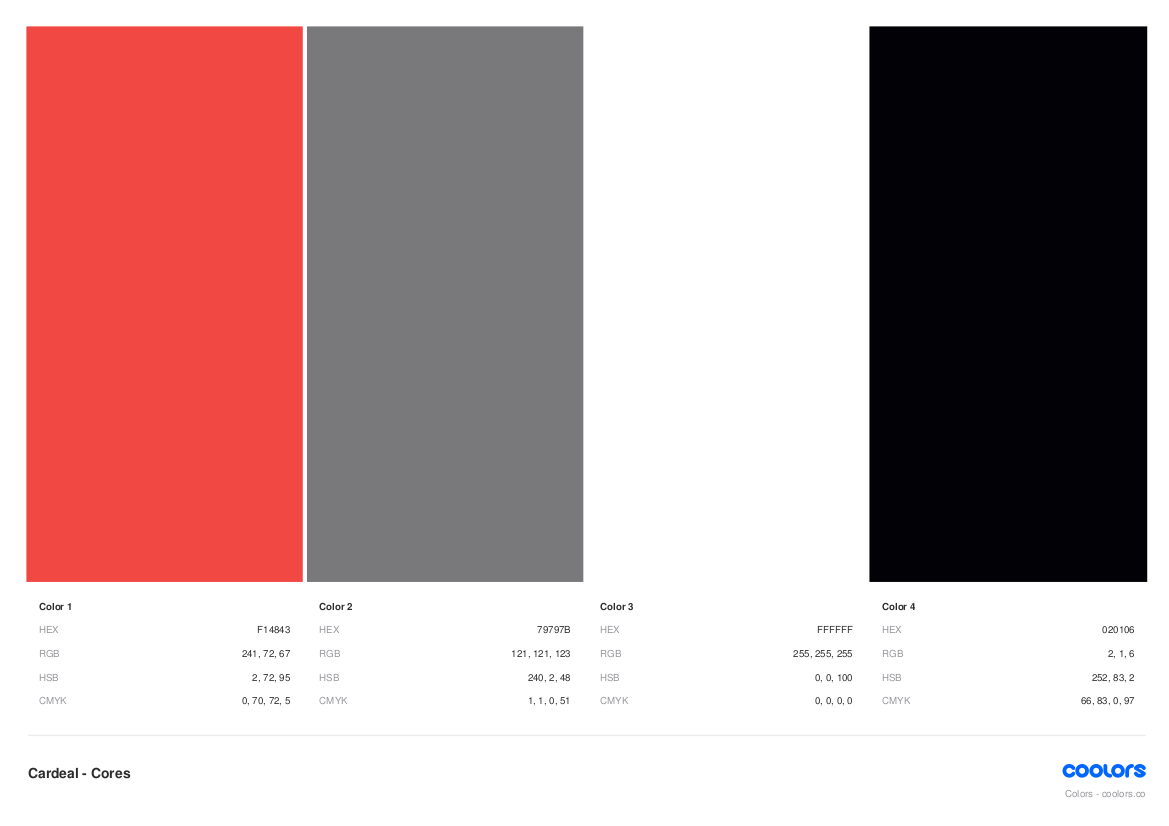
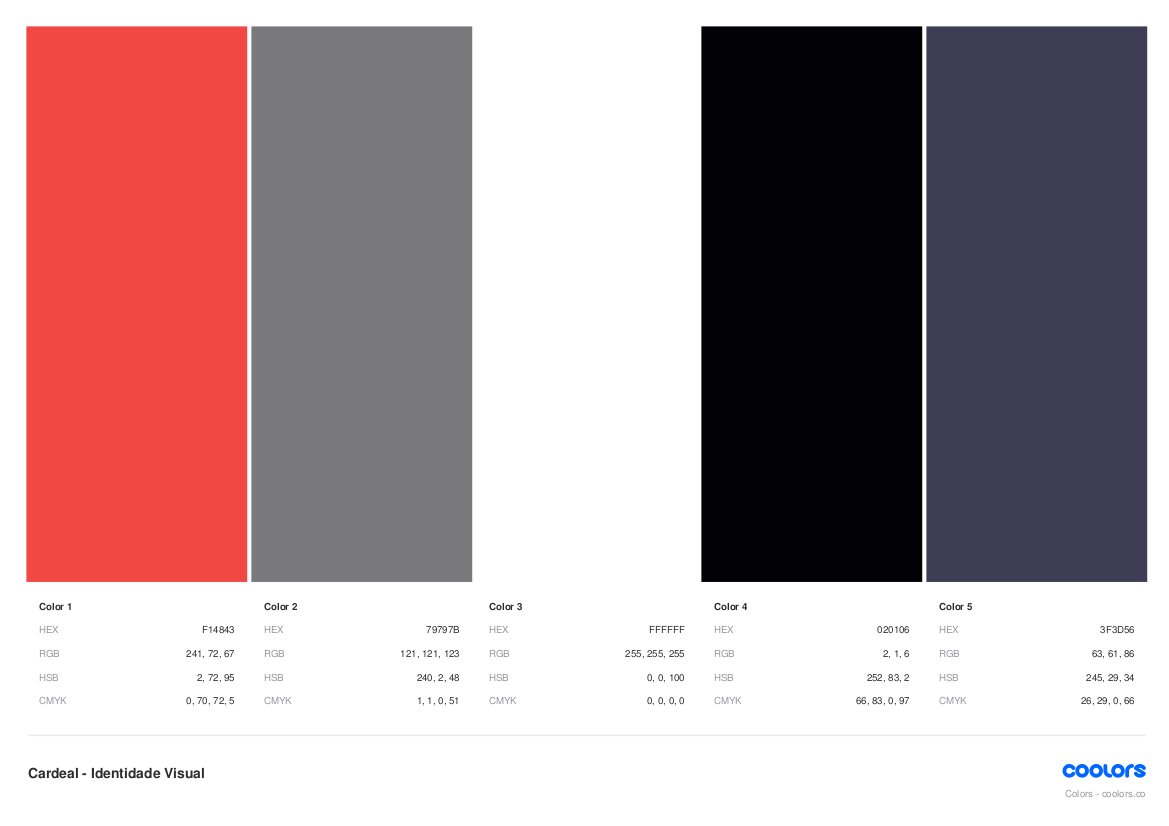
New color added

diff --git a/docs/modelagem/identidadeVisual.md b/docs/modelagem/identidadeVisual.md
@@ -6,7 +6,7 @@
 
 ## 2. Metodologia 
 
-<p align = "justify"> Para a montagem da identidade visual, primeiro foi escolhido o nome e o símbolo do projeto, escolhido pelos membros na Design Sprint, por possuírem características comuns com o projeto da equipe. A escolha das cores foi realizada em cima das cores que compõe o símbolo escolhido, o pássaro cardeal, e depois utilizando a ferramenta de palheta de cores para buscar cores similares, a ferramenta <a href="https://coolors.co/" target="_blank">Coolors</a> foi usada para buscar cores análogas e o resultado dessa consulta foi debatido pelos membros para escolher as cores em definitivo. A metodologia usada para definir a tipografia, foi realizada uma votação pelos membros entre as melhores fontes abertas disponibilizados por uma <a href="https://www.awwwards.com/20-best-web-fonts-from-google-web-fonts-and-font-face.html" target="_blank">matéria</a> do site <a href="https://www.awwwards.com/" target="_blank">awwwards</a>, site reponsável por divulgação de projetos de web design profissional.</p> 
+<p align = "justify"> Para a montagem da identidade visual, primeiro foi escolhido o nome e o símbolo do projeto, escolhido pelos membros na <a href="https://unbarqdsw2021-1.github.io/2021.1_G04_Cardeal/desenhoSoftwareBase/designSprint/">Design Sprint</a>, por possuírem características comuns com o projeto da equipe. A escolha das cores foi realizada em cima das cores que compõe o símbolo escolhido, o pássaro cardeal, e depois utilizando a ferramenta de palheta de cores para buscar cores similares, a ferramenta <a href="https://coolors.co/" target="_blank">Coolors</a> foi usada para buscar cores análogas e o resultado dessa consulta foi debatido pelos membros para escolher as cores em definitivo. A metodologia usada para definir a tipografia, foi realizada uma votação pelos membros entre as melhores fontes abertas disponibilizados por uma <a href="https://www.awwwards.com/20-best-web-fonts-from-google-web-fonts-and-font-face.html" target="_blank">matéria</a> do site <a href="https://www.awwwards.com/" target="_blank">awwwards</a>, site reponsável por divulgação de projetos de web design profissional.</p> 
  
 ### 3. Logo
 
@@ -25,6 +25,10 @@
 
 ### 4.1. Fonte - Sora
 
+<p align = "justify">A fonte <a href="https://fonts.google.com/specimen/Sora?query=sora" target="_blank">Sora</a> foi escolhida para a Logo e para o uso no website.
+
+Mais informações sobre a fonte e licença de uso dinponibilizados pelo site <a href="https://fonts.google.com/specimen/Sora?query=Jonathan+Barnbrook" target="_blank">fonts.google</a></p>
+
 <h6 align = "center">Figura 2 - Representação da fonte Sora, versão 1.0.</h6>
 
 ![Sora](../desenhoSoftwareBase/img/IdentidadeVisual/sora.png)
@@ -32,6 +36,10 @@
 <h6 align = "center">Fonte: Site <a href="https://www.figma.com/" target="_blank">Figma</a></h6><br/>
 
 ### 4.1. Fonte - Lora
+
+<p align = "justify">A fonte <a href="https://fonts.google.com/specimen/Lora?query=Cyreal" target="_blank">Lora</a> foi escolhida para o uso no website.
+
+Mais informações sobre a fonte e licença de uso dinponibilizados pelo site <a href="https://fonts.google.com/specimen/Sora?query=Jonathan+Barnbrook" target="_blank">fonts.google</a></p>
 
 
 <h6 align = "center">Figura 3 - Representação da fonte Lora, versão 1.0.</h6>
@@ -50,19 +58,17 @@
 
 <h6 align = "center">Figura 4 - Cores principais, versão 1.0.</h6>
 
-![Cor-Principal](../desenhoSoftwareBase/img/IdentidadeVisual/corPrincipal.png)
+[![Cor-Principal](../desenhoSoftwareBase/img/IdentidadeVisual/corPrincipal.png)](../desenhoSoftwareBase/img/IdentidadeVisual/corPrincipal.png)
 
-<h6 align = "center">Fonte: Site <a href="https://coolors.co/" target="_blank">Coolors</a></h6><br/>
+<h6 align = "center">Fonte: Site <a href="https://coolors.co/f14843-79797b-ffffff-020106-3f3d56" target="_blank">Coolors</a></h6><br/>
 
 | **Cor** | **Nome** | **RGB** | **CMYK** | **WEB** | 
 | :---: | :---: | :---: | :---: | :---: | 
 | ![Cor-Tart-Orange](../desenhoSoftwareBase/img/IdentidadeVisual/red.png) | Tart Orange | 241, 72, 67 | 0, 70, 72, 5 | #F14843 |
 | ![Cor-Sonic-Silver](../desenhoSoftwareBase/img/IdentidadeVisual/grey.png) | Sonic Silver | 121, 121, 123 | 2, 2, 0, 52 | #79797B |
-| ![Cor-Principal](../desenhoSoftwareBase/img/IdentidadeVisual/white.png) | White | 255, 255, 255 | 0, 0, 0, 0  | #FFFFFF |
-| ![Cor-Principal](../desenhoSoftwareBase/img/IdentidadeVisual/black.png) | Black | 2, 1, 6 | 67, 83, 0, 98 | #020106 |
-
-
-
+| ![Cor-White](../desenhoSoftwareBase/img/IdentidadeVisual/white.png) | White | 255, 255, 255 | 0, 0, 0, 0  | #FFFFFF |
+| ![Cor-Black](../desenhoSoftwareBase/img/IdentidadeVisual/black.png) | Black | 2, 1, 6 | 67, 83, 0, 98 | #020106 |
+| ![Cor-Black](../desenhoSoftwareBase/img/IdentidadeVisual/purple.png)  | Independence | 63, 61, 86 | 27, 29, 0, 66 | #3f3d56 |
 
 ### 5.2. Cores Secundárias
 
